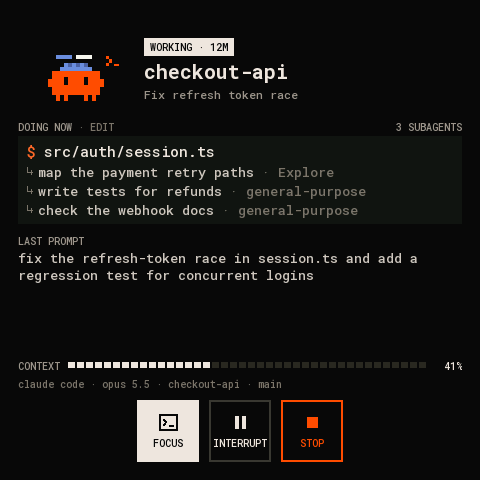
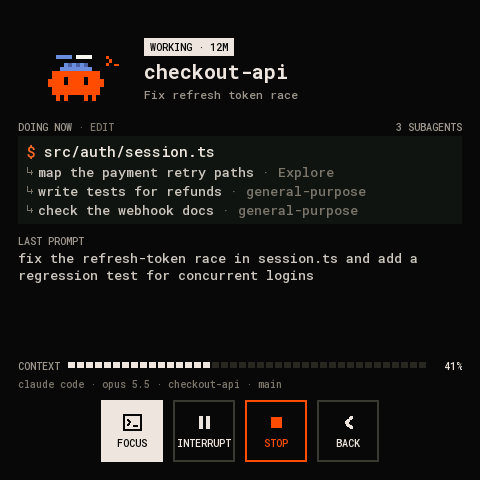
4-inch: a back button in the card's row
The agent card gets Back in its row of square buttons, in the same style,
as the menu bar app's agent page has it: a tap returns to the deck's grid.
It shows at every scope (a view-only board has just Back). Everything else
stays; the device's docs pictures are redrawn.

Changed region(s): [[0.1875, 0.8125, 0.5938, 0.9688], [0.625, 0.8125, 0.8125, 0.9688]]

diff --git a/firmware/panel-core/src/layout_big.h b/firmware/panel-core/src/layout_big.h
@@ -13,7 +13,7 @@
 //           doing now with the command and the subagents; the last prompt;
 //           context and where it runs; and square buttons in a row: focus,
 //           interrupt while running, otherwise stop ("again" arms it for
-//           3 s) or resume and remove once exited. An egg ready to hatch sits
+//           3 s) or resume and remove once exited, and back to the deck. An egg ready to hatch sits
 //           in a box that says "tap to hatch" (HatchPet).
 //   prompt  the whole screen orange: the pet boxed with its "?", what it
 //           asks, the command, and every answer as a row; tap one to choose
@@ -212,8 +212,8 @@ constexpr int kChipH = 18, kLineXS = 13, kLineS = 15, kLineM = 17, kLineL = 19, 
 // The button row: squares in a centred row at the foot.
 struct BigButtons {
   int n = 0;
-  Hit kind[3];
-  Rect r[3];
+  Hit kind[4];
+  Rect r[4];
 };
 
 static inline Rect bigCardInner(const BigSpec& S) {
@@ -228,15 +228,15 @@ static inline BigButtons bigCardButtons(const BigSpec& S, const Agent& a, DeckSc
   const bool exited = a.status == Status::Exited, running = a.status == Status::Running;
   // What the scope allows: focus and interrupt need act, stop / remove / resume admin.
   const bool act = canAct(scope), admin = scope == DeckScope::Admin;
-  if (!act) return b;
-  if (!exited) {
+  if (act && !exited) {
     b.kind[b.n++] = Hit::Focus;
     if (running) b.kind[b.n++] = Hit::Interrupt;
     if (admin) b.kind[b.n++] = Hit::Stop;
-  } else if (admin) {
+  } else if (act && admin) {
     if (a.resumable) b.kind[b.n++] = Hit::Resume;
     b.kind[b.n++] = Hit::Stop;
   }
+  b.kind[b.n++] = Hit::Back;   // back to the deck, as the menu bar app's agent page has it
   const int w = b.n * size + (b.n - 1) * big_ui::kActGap;
   for (int i = 0; i < b.n; i++)
     b.r[i] = Rect{(S.w - w) / 2 + i * (size + big_ui::kActGap), S.h - big_ui::kM - size, size, size};
@@ -427,6 +427,7 @@ static inline DeckCommand bigTap(PanelUi& ui, const Fleet& f, const PanelHit& h,
   DeckCommand out;
   switch (h.kind) {
     case Hit::Tile: bigOpen(ui, f, h.agent); break;
+    case Hit::Back: bigHome(ui); break;
     case Hit::PageBar: ui.page = h.index; ui.needsYou = false; break;
     case Hit::NeedsYou: ui.needsYou = ui.att != nullptr; break;
     case Hit::Focus:
@@ -973,6 +974,9 @@ static inline void icon(Canvas& c, Hit kind, int cx, int cy, int size, uint16_t 
     }
     case Hit::Interrupt: r(4, 3, 3, 10); r(9, 3, 3, 10); break;
     case Hit::Resume: r(5, 3, 2, 10); r(7, 4, 2, 8); r(9, 5, 2, 6); r(11, 7, 1, 2); break;
+    case Hit::Back:   // a chevron pointing left
+      for (int i = 0; i < 5; i++) { r(9 - i, 3 + i, 2, 2); r(9 - i, 11 - i, 2, 2); }
+      break;
     default: r(4, 4, 8, 8);
   }
 }
@@ -1116,6 +1120,7 @@ static inline void card(Canvas& c, const BigSpec& S, const Theme& T, const Panel
       case Hit::Focus: act(c, T, b.r[i], Hit::Focus, "focus", true, false, pressed, false); break;
       case Hit::Interrupt: act(c, T, b.r[i], Hit::Interrupt, "interrupt", false, false, pressed, false); break;
       case Hit::Resume: act(c, T, b.r[i], Hit::Resume, "resume", false, false, pressed, false); break;
+      case Hit::Back: act(c, T, b.r[i], Hit::Back, "back", false, false, pressed, false); break;
       default: {
         const bool exited = a.status == Status::Exited;
         act(c, T, b.r[i], Hit::Stop, exited ? "remove" : armed ? "again" : "stop", false, true, pressed || (armed && !exited), false);

diff --git a/firmware/panel-core/tests/test_big.cpp b/firmware/panel-core/tests/test_big.cpp
@@ -92,22 +92,30 @@ int main() {
   {
     Agent run = mk("r", 0, Status::Running), idle = mk("i", 1, Status::Idle), ex = mk("x", 2, Status::Exited);
     BigButtons b = bigCardButtons(S, run, DeckScope::View);
-    assert(b.n == 0);
+    assert(b.n == 1 && b.kind[0] == Hit::Back && b.r[0].x == (S.w - big_ui::kAct) / 2);   // view scope: only back
     b = bigCardButtons(S, run, DeckScope::Act);
-    assert(b.n == 2 && b.kind[0] == Hit::Focus && b.kind[1] == Hit::Interrupt);
+    assert(b.n == 3 && b.kind[0] == Hit::Focus && b.kind[1] == Hit::Interrupt && b.kind[2] == Hit::Back);
     assert(b.r[0].w == big_ui::kAct && b.r[0].h == big_ui::kAct && b.r[1].x == b.r[0].x + big_ui::kAct + big_ui::kActGap);
-    assert(b.r[0].y + b.r[0].h == S.h - big_ui::kM && b.r[0].x - 0 == S.w - (b.r[1].x + b.r[1].w));   // centred
+    assert(b.r[0].y + b.r[0].h == S.h - big_ui::kM && b.r[0].x - 0 == S.w - (b.r[2].x + b.r[2].w));   // centred
     b = bigCardButtons(S, run, DeckScope::Admin);
-    assert(b.n == 3 && b.kind[2] == Hit::Stop);
+    assert(b.n == 4 && b.kind[2] == Hit::Stop && b.kind[3] == Hit::Back && b.r[0].x >= big_ui::kM);
     b = bigCardButtons(S, idle, DeckScope::Act);
-    assert(b.n == 1 && b.kind[0] == Hit::Focus && b.r[0].x == (S.w - big_ui::kAct) / 2);   // stop needs admin
+    assert(b.n == 2 && b.kind[0] == Hit::Focus && b.kind[1] == Hit::Back);   // stop needs admin
     b = bigCardButtons(S, idle, DeckScope::Admin);
-    assert(b.n == 2 && b.kind[1] == Hit::Stop);
+    assert(b.n == 3 && b.kind[1] == Hit::Stop);
     b = bigCardButtons(S, ex, DeckScope::Admin);
-    assert(b.n == 1 && b.kind[0] == Hit::Stop);                                       // remove
+    assert(b.n == 2 && b.kind[0] == Hit::Stop && b.kind[1] == Hit::Back);             // remove
     ex.resumable = true;
     b = bigCardButtons(S, ex, DeckScope::Admin);
-    assert(b.n == 2 && b.kind[0] == Hit::Resume && b.kind[1] == Hit::Stop);
+    assert(b.n == 3 && b.kind[0] == Hit::Resume && b.kind[1] == Hit::Stop);
+    {   // back: a tap goes home
+      Fleet f = fleetOf({run});
+      PanelUi ui;
+      bigOpen(ui, f, 0);
+      b = bigCardButtons(S, f.agents[0], DeckScope::View);
+      const DeckCommand c = tap(S, ui, f, b.r[0], DeckScope::View, 0);
+      assert(c.cmd == DeckCmd::None && ui.screen == Screen::Home);
+    }
     // The card's parts stack without overlap: the column ends on the zone's foot.
     for (const Agent* a : {&run, &idle, &ex}) {
       const BigCard g = bigCard(S, *a, DeckScope::Admin);
@@ -381,7 +389,7 @@ int main() {
     B.draw(cb, in);
     SquarePanel(specLcd4()).draw(cs, in);
     const BigButtons b = bigCardButtons(S, d.fleet.agents[i], DeckScope::Act);
-    assert(b.n == 2 && b.kind[0] == Hit::Focus);
+    assert(b.n == 3 && b.kind[0] == Hit::Focus && b.kind[2] == Hit::Back);
     const Theme T = deckTheme(false);
     // The focus button's face, beside its label, is filled; the small card has its round buttons elsewhere.
     const uint16_t face = big[(b.r[0].y + 6) * S.w + b.r[0].x + 12];

diff --git a/firmware/panel-core/src/panel_layout.h b/firmware/panel-core/src/panel_layout.h
@@ -60,7 +60,7 @@ enum class Screen : uint8_t { Home, Card, Prompt };
 // What lies under a point.
 // NeedsYou: the "Needs you" screen's mark among the page bars.
 // ConfirmYes, ConfirmNo: the two buttons of "interrupt?" over a card.
-enum class Hit : uint8_t { None, Tile, PageBar, Focus, Interrupt, Stop, Option, Send, Resume, NeedsYou, ConfirmYes, ConfirmNo, Hatch };
+enum class Hit : uint8_t { None, Tile, PageBar, Focus, Interrupt, Stop, Option, Send, Resume, NeedsYou, ConfirmYes, ConfirmNo, Hatch, Back };
 
 struct PanelHit {
   Hit kind = Hit::None;

diff --git a/firmware/devices/waveshare-touch-lcd-4/README.md b/firmware/devices/waveshare-touch-lcd-4/README.md
@@ -38,7 +38,8 @@ Flutter UI with every size times 2/3 (`layout_big.h`).
   - **focus**;
   - **interrupt** while the agent runs;
   - **stop**, which arms on the first tap ("again", for 3 s);
-  - once the agent has exited, resume and remove.
+  - once the agent has exited, resume and remove;
+  - **back** to the deck, as on the menu bar app's agent page.
 
   Focus and interrupt need scope `act`; stop, resume and remove need `admin`. An egg ready to hatch
   sits in a box that says **tap to hatch**: a tap hatches it (HatchPet, with a deck that has it).
